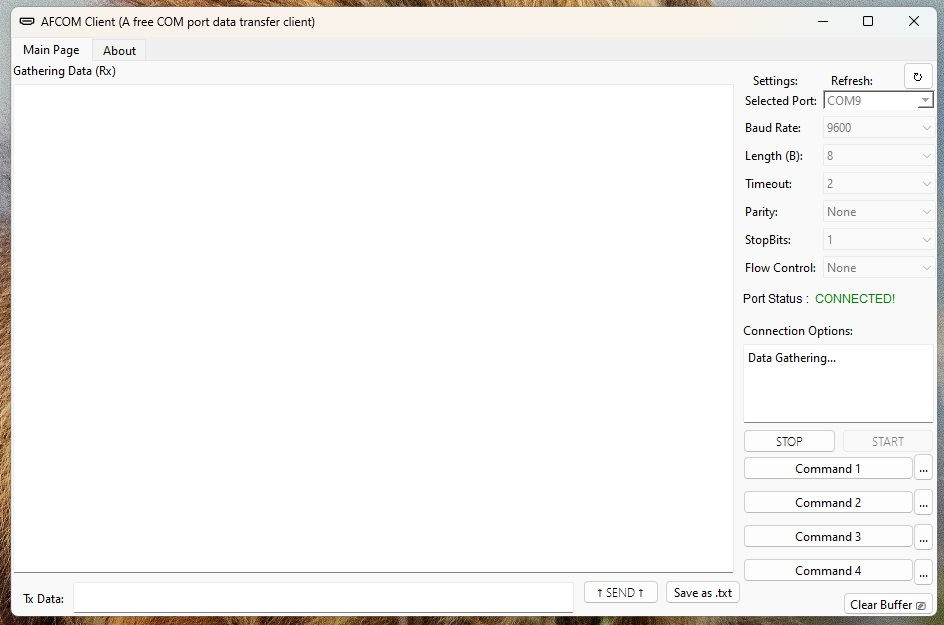
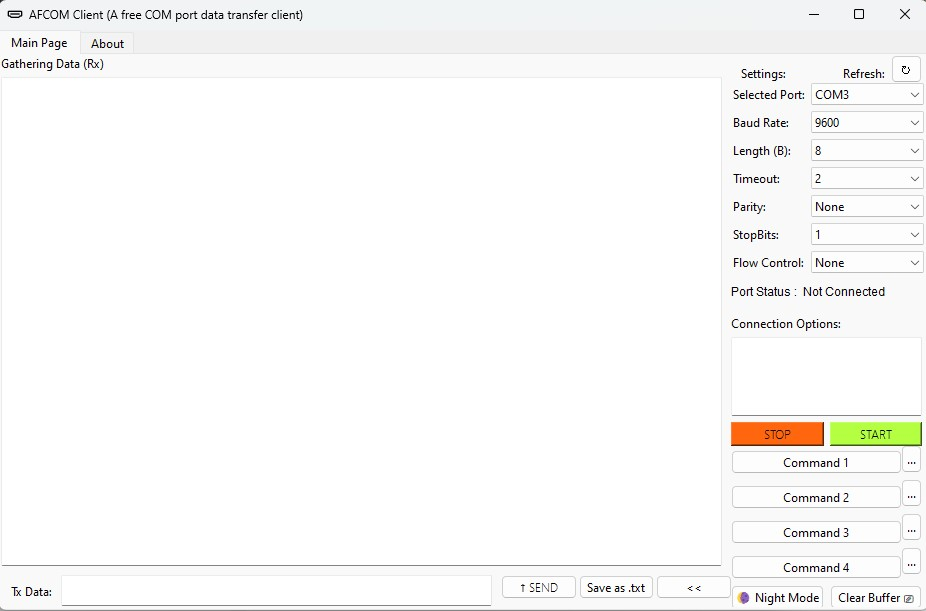
Simple View and Night Mode have been introduced

Changed region(s): [[0.0, 0.0, 1.0, 1.0]]

diff --git a/src/ui_main.py b/src/ui_main.py
@@ -42,6 +42,8 @@ except ImportError as e:
 SERIAL_INFO = Serial()
 PORTS = []
 is_serial_port_established = False
+nightModeEnabled = False
+simpleViewEnabled = False
 
 def get_serial_port():
     """ Lists serial port names
@@ -129,12 +131,42 @@ class MainWindow(QMainWindow):
 
         self.clear_buffer_button.clicked.connect(self.clear_buffer)
 
+        self.night_mode.clicked.connect(self.night_mode_clicked)
+        self.view_change.clicked.connect(self.view_changes)
+
         self.port_comboBox.addItems(PORTS)
 
         self.send_data_button.clicked.connect(
             self.on_send_data_button_clicked)
 
         self.end_button.clicked.connect(self.on_end_button_clicked)
+    
+    def view_changes(self):
+        """ Change the window size """
+        global simpleViewEnabled
+        # Change the window size
+        if simpleViewEnabled == False:
+            self.resize(726, 580)
+            self.view_change.setText(">>")
+            simpleViewEnabled = True
+        else:
+            self.resize(929, 580)
+            self.view_change.setText("<<")
+            simpleViewEnabled = False
+
+    def night_mode_clicked(self):
+        """ Night Mode """
+        #define static variable
+        global nightModeEnabled
+
+        if nightModeEnabled == False:
+            self.data_textEdit.setStyleSheet("background-color: black; color: white;")
+            self.night_mode.setText("Day Mode")
+            nightModeEnabled = True
+        else:
+            self.data_textEdit.setStyleSheet("background-color: white; color: black;")
+            self.night_mode.setText("🌘 Night Mode")
+            nightModeEnabled = False
 
     def command1(self):
         """ Open the text input popup to save command for button 1 """

diff --git a/README.md b/README.md
@@ -53,6 +53,10 @@ pip install -r requirements.txt
 
 ![Project SS](https://github.com/mcagriaksoy/Serial-Communication-GUI-Program/blob/master/img/Screenshot_v2024_07.jpg)
 
+Simple View and Night Mode have been introduced:
+
+![Project SS](https://github.com/mcagriaksoy/Serial-Communication-GUI-Program/blob/master/img/Screenshot_v2024_07_2.jpg)
+
 If you encounter any problems while using the COM port tool, try these solutions:
 
 Make sure that the COM port is not used by another application or device.
